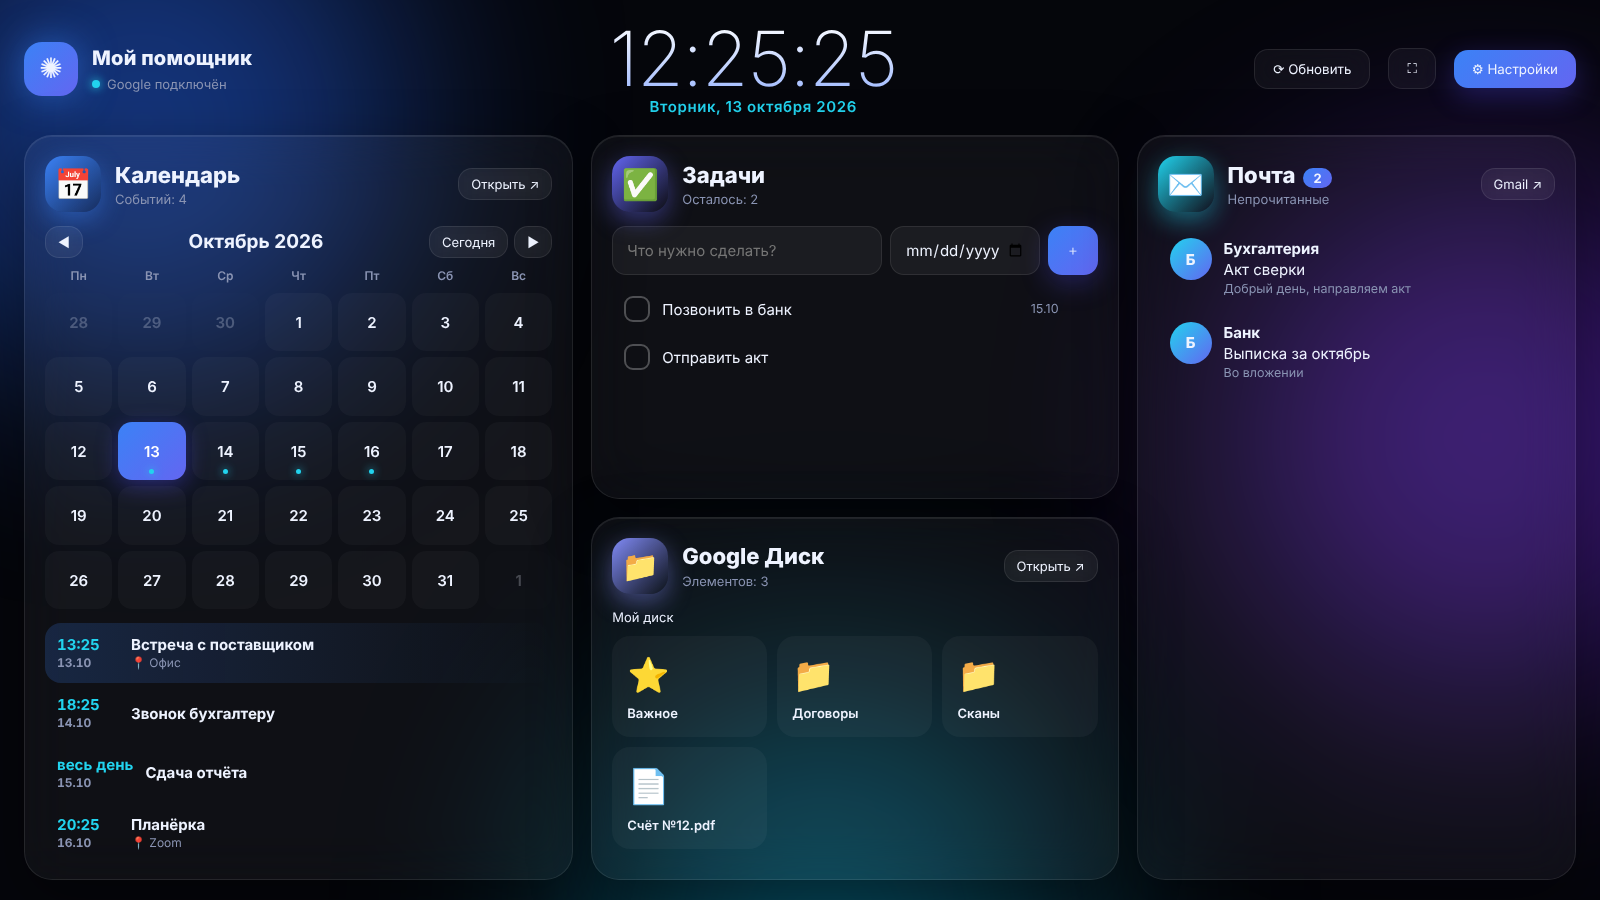
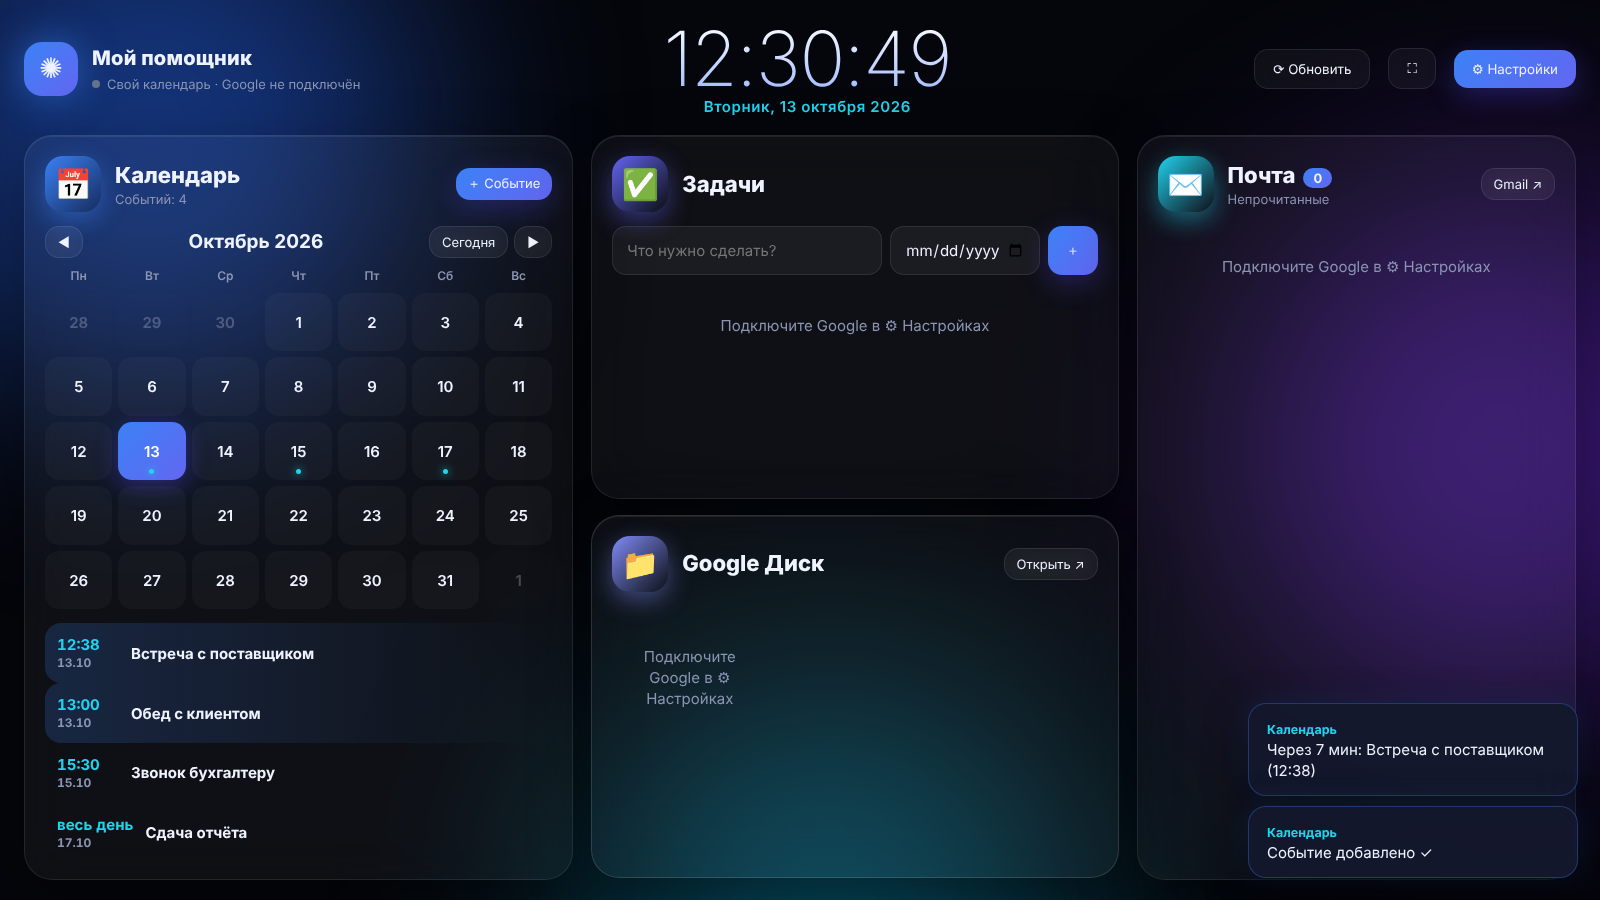
Local calendar: own events stored on this PC with reminders; Google optional
Claude-Session: https://claude.ai/code/session_01JDTBbyHNTuP4kXM5Cau5r2

diff --git a/assistant/web/index.html b/assistant/web/index.html
@@ -45,7 +45,7 @@ input,textarea{background:#ffffff0d;border:1px solid var(--ln);color:var(--ink);
 .mi div{min-width:0}.mi b,.mi small{display:block;white-space:nowrap;overflow:hidden;text-overflow:ellipsis}.mi small{color:var(--mut)}
 .badge{background:linear-gradient(135deg,var(--b1),var(--b2));padding:2px 10px;border-radius:99px;font-size:13px;font-weight:700;margin-left:8px}
 .empty{color:var(--mut);text-align:center;padding:30px 10px}
-.hero{position:fixed;inset:0;display:none;place-items:center;background:#05060bd9;backdrop-filter:blur(8px);z-index:5}.hero.on{display:grid}
+.hero{position:fixed;inset:0;display:none;place-items:center;background:#05060bd9;backdrop-filter:blur(8px);z-index:5}.hero.on{display:grid}.tag{font-size:11px;padding:2px 8px;border-radius:99px;background:#3b82f633;color:#93c5fd;margin-left:6px;font-weight:600}.ev .x{margin-left:auto;opacity:0;cursor:pointer}.ev:hover .x{opacity:.7}
 .drawer{position:fixed;top:0;right:0;bottom:0;width:min(460px,100vw);background:rgba(12,14,24,.92);backdrop-filter:blur(30px);border-left:1px solid var(--ln);padding:26px;transform:translateX(105%);transition:.35s cubic-bezier(.2,.8,.2,1);z-index:6;overflow:auto}.drawer.on{transform:none}
 .drawer h3{margin:22px 0 8px;font-size:12px;letter-spacing:.14em;color:var(--b3)}.drawer label{display:flex;align-items:center;gap:10px;padding:7px 0;color:var(--ink)}
 .row{display:flex;gap:8px;flex-wrap:wrap;margin:8px 0}.steps{color:var(--mut);font-size:13px}.steps li{margin:3px 0}
@@ -61,7 +61,7 @@ input,textarea{background:#ffffff0d;border:1px solid var(--ln);color:var(--ink);
  <button class="btn" onclick="refresh()">⟳ Обновить</button><button class="btn" onclick="fs()">⛶</button><button class="btn p" onclick="drawer(1)">⚙ Настройки</button>
 </header>
 <main>
- <section class="card cal" style="--g:#3b82f6"><div class="hd"><div class="ic">📅</div><div><h2>Календарь</h2><small id="evc"></small></div><button class="btn sm" onclick="window.open('https://calendar.google.com')">Открыть ↗</button></div>
+ <section class="card cal" style="--g:#3b82f6"><div class="hd"><div class="ic">📅</div><div><h2>Календарь</h2><small id="evc"></small></div><button class="btn p sm" onclick="evm(1)">＋ Событие</button></div>
   <div class="mn"><button class="btn sm" onclick="mv(-1)">◀</button><b id="mt"></b><div><button class="btn sm" onclick="goto()">Сегодня</button><button class="btn sm" onclick="mv(1)">▶</button></div></div>
   <div class="mg" id="mg"></div><div class="body" id="evl" style="margin-top:14px"></div></section>
  <section class="card" style="--g:#6366f1"><div class="hd"><div class="ic">✅</div><div><h2>Задачи</h2><small id="tc"></small></div></div>
@@ -70,11 +70,18 @@ input,textarea{background:#ffffff0d;border:1px solid var(--ln);color:var(--ink);
  <section class="card" style="--g:#818cf8"><div class="hd"><div class="ic">📁</div><div><h2>Google Диск</h2><small id="dc"></small></div><button class="btn sm" onclick="window.open('https://drive.google.com')">Открыть ↗</button></div><div class="crumb" id="cr"></div><div class="body"><div class="tiles" id="dr"></div></div></section>
 </main>
 
-<div class="hero" id="hero"><div class="card" style="max-width:480px;text-align:center;align-items:center;gap:14px;--g:#6366f1"><div class="logo" style="width:84px;height:84px;font-size:44px;border-radius:28px;background:linear-gradient(135deg,#3b82f6,#6366f1)">✺</div><h2 style="margin:0;font-size:28px">Подключите Google</h2><p style="color:var(--mut);margin:0">Один вход — календарь, задачи, диск и Gmail. Уведомления придут сами.</p><button class="btn p" onclick="drawer(1)">⚙ Открыть настройки</button></div></div>
+<div class="hero" id="evm"><div class="card" style="width:min(460px,92vw);gap:12px;--g:#3b82f6">
+ <div class="hd"><div class="ic">📅</div><div><h2>Новое событие</h2><small>Сохраняется на этом компьютере</small></div></div>
+ <input id="et" placeholder="Название" onkeydown="if(event.key=='Enter')saveEv()">
+ <div style="display:flex;gap:8px"><input id="ed" type="date" style="flex:1"><input id="etm" type="time" style="flex:1"></div>
+ <input id="el" placeholder="Место (необязательно)">
+ <label style="display:flex;gap:8px;align-items:center;color:var(--mut)">Напомнить за <input id="er" type="number" min="0" placeholder="по умолч." style="width:100px"> мин</label>
+ <div style="color:var(--mut);font-size:12px">Без времени — событие на весь день.</div>
+ <div class="row" style="margin:6px 0 0"><button class="btn p" onclick="saveEv()">Сохранить</button><button class="btn" onclick="evm(0)">Отмена</button></div></div></div>
 
 <aside class="drawer" id="dw">
  <div style="display:flex;align-items:center"><h2 style="margin:0;font-size:24px">Настройки</h2><button class="btn sm" style="margin-left:auto" onclick="drawer(0)">✕</button></div>
- <h3>ПОДКЛЮЧЕНИЕ GOOGLE</h3><div id="gs" style="color:var(--mut)"></div>
+ <p style="color:var(--mut);font-size:13px">Календарь работает и без Google — события хранятся на этом компьютере. Google нужен для задач, диска и почты (и по желанию показывает свои события календаря).</p><h3>ПОДКЛЮЧЕНИЕ GOOGLE (необязательно)</h3><div id="gs" style="color:var(--mut)"></div>
  <ol class="steps"><li>Скачайте OAuth-ключ (см. assistant/README.md)</li><li>Загрузите файл ниже</li><li>Нажмите «Подключить» и разрешите доступ</li></ol>
  <div class="row"><label class="btn sm" style="cursor:pointer">1. Загрузить credentials.json<input type="file" accept=".json" id="kf" hidden onchange="upKey(this)"></label><button class="btn p sm" onclick="conn()">2. Подключить Google</button><button class="btn sm" onclick="api('/api/disconnect','POST').then(poll)">Отключить</button></div>
  <p style="color:var(--mut);font-size:13px">Gmail входит в тот же доступ — отдельный пароль почты не нужен.</p>
@@ -107,17 +114,21 @@ function drawCal(){$('mt').textContent=`${MN[month.getMonth()]} ${month.getFullY
  $('mg').innerHTML=h;drawEv()}
 function pickD(k){sel=sel==k?null:k;drawCal()}
 function drawEv(){const now=Date.now();let l=S.events.filter(e=>!sel||key(new Date(e.start))==sel);$('evc').textContent=`Событий: ${S.events.length}`;
- $('evl').innerHTML=l.length?l.map(e=>{const d=new Date(e.start);return`<div class="ev ${Math.abs(d-now)<36e5&&!e.all_day?'now':''}" onclick="window.open('${esc(e.link)}')"><div class="tm">${e.all_day?'весь день':pad(d.getHours())+':'+pad(d.getMinutes())}<div class="dd">${pad(d.getDate())}.${pad(d.getMonth()+1)}</div></div><div><b>${esc(e.title)}</b>${e.location?`<div class="dd">📍 ${esc(e.location)}</div>`:''}</div></div>`}).join(''):'<div class="empty">Нет событий ✨</div>'}
+ $('evl').innerHTML=l.length?l.map(e=>{const d=new Date(e.start);return`<div class="ev ${Math.abs(d-now)<36e5&&!e.all_day?'now':''}" onclick="${e.local?'':`window.open('${esc(e.link)}')`}"><div class="tm">${e.all_day?'весь день':pad(d.getHours())+':'+pad(d.getMinutes())}<div class="dd">${pad(d.getDate())}.${pad(d.getMonth()+1)}</div></div><div><b>${esc(e.title)}</b>${e.local?'':'<span class="tag">Google</span>'}${e.location?`<div class="dd">📍 ${esc(e.location)}</div>`:''}</div>${e.local?`<div class="x" onclick="event.stopPropagation();delEv('${e.id}')">🗑</div>`:''}</div>`}).join(''):'<div class="empty">Нет событий ✨<br><small>Нажмите «＋ Событие», чтобы добавить</small></div>'}
+function evm(o){$('evm').classList.toggle('on',!!o);if(o){$('ed').value=sel||key(new Date());$('et').value='';$('etm').value='';$('el').value='';$('er').value='';setTimeout(()=>$('et').focus(),50)}}
+async function saveEv(){try{await api('/api/events','POST',{title:$('et').value,date:$('ed').value,time:$('etm').value,location:$('el').value,lead:$('er').value});evm(0);await api('/api/refresh','POST');setTimeout(poll,600);toast('Календарь','Событие добавлено ✓')}catch(e){toast('Ошибка',e.message)}}
+async function delEv(id){if(confirm('Удалить событие?')){await api('/api/events/delete','POST',{id});await api('/api/refresh','POST');setTimeout(poll,600)}}
 /* почта */
-function drawMail(){$('mb').textContent=S.mail.length;$('ml').innerHTML=S.mail.length?S.mail.map(m=>{const n=(m.from.split('<')[0].trim()||m.from);return`<div class="mi" onclick="window.open('https://mail.google.com')"><div class="av">${esc(n[0]||'?').toUpperCase()}</div><div><b>${esc(n)}</b><span>${esc(m.subject)}</span><small>${esc(m.snippet)}</small></div></div>`}).join(''):'<div class="empty">Всё прочитано 🎉</div>'}
+function drawMail(){if(!S.connected){$('mb').textContent=0;$('ml').innerHTML=NC;return}$('mb').textContent=S.mail.length;$('ml').innerHTML=S.mail.length?S.mail.map(m=>{const n=(m.from.split('<')[0].trim()||m.from);return`<div class="mi" onclick="window.open('https://mail.google.com')"><div class="av">${esc(n[0]||'?').toUpperCase()}</div><div><b>${esc(n)}</b><span>${esc(m.subject)}</span><small>${esc(m.snippet)}</small></div></div>`}).join(''):'<div class="empty">Всё прочитано 🎉</div>'}
 /* задачи */
-async function loadT(){if(!S.connected)return;try{const t=await api('/api/tasks');$('tc').textContent=`Осталось: ${t.length}`;
+const NC='<div class="empty">Подключите Google в ⚙ Настройках</div>';
+async function loadT(){if(!S.connected){$('tl').innerHTML=NC;return}try{const t=await api('/api/tasks');$('tc').textContent=`Осталось: ${t.length}`;
  $('tl').innerHTML=t.length?t.map(x=>`<div class="tk" id="k${x.id}"><div class="ck" onclick="done('${x.id}')"></div><span>${esc(x.title)}</span>${x.due?`<small>${x.due.split('-').reverse().slice(0,2).join('.')}</small>`:''}<div class="del" onclick="delT('${x.id}')">🗑</div></div>`).join(''):'<div class="empty">Задач нет — отдыхайте 🌴</div>'}catch(e){toast('Задачи',e.message)}}
 async function addT(){const t=$('ti').value.trim();if(!t)return;$('ti').value='';await api('/api/tasks','POST',{title:t,due:$('td').value});$('td').value='';loadT()}
 async function done(id){const e=$('k'+id);e&&e.classList.add('x');await api('/api/tasks/done','POST',{id});setTimeout(loadT,450)}
 async function delT(id){if(confirm('Удалить задачу?')){await api('/api/tasks/delete','POST',{id});loadT()}}
 /* диск */
-async function loadD(){if(!S.connected)return;$('cr').innerHTML=stack.map((s,i)=>`<a style="cursor:pointer;color:${i==stack.length-1?'var(--ink)':'var(--b3)'}" onclick="crumb(${i})">${esc(s[0])}</a>`).join(' › ');
+async function loadD(){if(!S.connected){$('dr').innerHTML=NC.replace('class="empty"','class="empty" style="grid-column:1/-1"');return}$('cr').innerHTML=stack.map((s,i)=>`<a style="cursor:pointer;color:${i==stack.length-1?'var(--ink)':'var(--b3)'}" onclick="crumb(${i})">${esc(s[0])}</a>`).join(' › ');
  const pins=(S.config.drive_folders||[]).map(f=>`<div class="tile" onclick="pin('${esc(f.id)}','${esc(f.name)}')"><i>⭐</i><b>${esc(f.name)}</b></div>`).join('');
  try{const it=await api('/api/drive?folder='+stack[stack.length-1][1]);$('dc').textContent=`Элементов: ${it.length}`;
  $('dr').innerHTML=(stack.length==1?pins:'')+it.map(f=>`<div class="tile" onclick="${f.folder?`openF('${f.id}','${esc(f.name).replace(/'/g,'')}')`:`window.open('${esc(f.link)}')`}"><i>${f.folder?'📁':'📄'}</i><b>${esc(f.name)}</b></div>`).join('')}catch(e){toast('Диск',e.message)}}
@@ -132,10 +143,9 @@ async function refresh(){await api('/api/refresh','POST');setTimeout(()=>{poll()
 /* опрос */
 async function poll(){try{const s=await api('/api/state?since='+since),was=S.connected;S=s;
  s.alerts.forEach(a=>{since=Math.max(since,a.id);toast(a.title,a.text)});
- $('dot').className='dot'+(s.connected?' on':'');$('cn').textContent=s.connected?'Google подключён':(s.connecting?'Подключаем…':'Google не подключён');
- $('hero').classList.toggle('on',!s.connected&&!$('dw').classList.contains('on'));
- $('gs').textContent=(s.connected?'● Подключено. ':'○ Не подключено. ')+(s.has_key?'Ключ загружен.':'Нужен файл credentials.json.')+(s.error?' Ошибка: '+s.error:'');
+ $('dot').className='dot'+(s.connected?' on':'');$('cn').textContent=s.connected?'Google подключён':(s.connecting?'Подключаем…':'Свой календарь · Google не подключён');
+  $('gs').textContent=(s.connected?'● Подключено. ':'○ Не подключено. ')+(s.has_key?'Ключ загружен.':'Нужен файл credentials.json.')+(s.error?' Ошибка: '+s.error:'');
  if(!cfgLoaded&&s.config.default_lead_minutes){cfgLoaded=true;fillCfg()}
  drawCal();drawMail();if(s.connected&&!was){loadT();loadD()}}catch(e){$('cn').textContent='Нет связи с помощником'}}
-poll();setInterval(poll,5000);setInterval(loadT,60000);
+poll();loadT();loadD();setInterval(poll,5000);setInterval(loadT,60000);
 </script></html>

diff --git a/assistant/server.py b/assistant/server.py
@@ -19,6 +19,7 @@ from .watcher import due_reminders, new_mail, reminder_text
 
 CONFIG_PATH = Path("assistant_config.yaml")
 TOKEN_PATH = Path(".assistant_token")
+EVENTS_PATH = Path("assistant_events.json")
 WEB = Path(__file__).parent / "web"
 DEFAULTS = {
     "credentials_file": "credentials.json", "token_file": "token.json",
@@ -43,12 +44,34 @@ def get_token() -> str:
     return t
 
 
+def load_local() -> list[dict]:
+    if EVENTS_PATH.exists():
+        try:
+            return json.loads(EVENTS_PATH.read_text(encoding="utf-8"))
+        except ValueError:
+            return []
+    return []
+
+
+def local_to_event(e: dict) -> dict:
+    """Запись своего календаря -> тот же вид, что у событий Google."""
+    if e.get("all_day"):
+        start = dt.datetime.combine(dt.date.fromisoformat(e["date"]), dt.time.min).astimezone()
+    else:
+        start = dt.datetime.fromisoformat(f"{e['date']}T{e.get('time') or '09:00'}").astimezone()
+    lead = e.get("lead")
+    return {"id": e["id"], "summary": e["title"], "start": start, "all_day": bool(e.get("all_day")),
+            "leads": [int(lead)] if lead not in (None, "") else [], "use_default": lead in (None, ""),
+            "location": e.get("location", ""), "link": "", "local": True}
+
+
 class Core:
     def __init__(self):
         self.cfg = load_config()
         self.token = get_token()
         self.g = Google(self.cfg["credentials_file"], self.cfg["token_file"])
-        self.events, self.mail, self.alerts = [], [], []
+        self.google_events, self.events, self.mail, self.alerts = [], [], [], []
+        self.local = load_local()
         self.seen_rem, self.seen_mail, self.mail_first = set(), set(), True
         self.error, self.connecting = "", False
         self.wake = threading.Event()
@@ -63,20 +86,49 @@ class Core:
         if not notify(title, text):
             pass  # страница всё равно покажет карточку-уведомление
 
+    def rebuild(self):
+        mine = [local_to_event(e) for e in self.local]
+        self.events = sorted(self.google_events + mine, key=lambda e: e["start"])
+
     def _calendar_loop(self):
         while True:
             if self.g.connected():
                 try:
-                    evs = self.g.events(days=int(self.cfg["events_days_ahead"]))
-                    if self.cfg["notify_calendar"]:
-                        for e, left in due_reminders(evs, dt.datetime.now(dt.timezone.utc),
-                                                     int(self.cfg["default_lead_minutes"]), self.seen_rem):
-                            self.alert("Календарь", reminder_text(e, left))
-                    self.events, self.error = evs, ""
+                    self.google_events = self.g.events(days=int(self.cfg["events_days_ahead"]))
+                    self.error = ""
                 except Exception as ex:
                     self.error = str(ex)
-            self.wake.wait(int(self.cfg["calendar_poll_seconds"]) if self.g.connected() else 3)
+            self.rebuild()
+            if self.cfg["notify_calendar"]:
+                for e, left in due_reminders(self.events, dt.datetime.now(dt.timezone.utc),
+                                             int(self.cfg["default_lead_minutes"]), self.seen_rem):
+                    self.alert("Календарь", reminder_text(e, left))
+            self.wake.wait(min(int(self.cfg["calendar_poll_seconds"]), 30) if not self.g.connected()
+                           else int(self.cfg["calendar_poll_seconds"]))
             self.wake.clear()
+
+    def add_event(self, d: dict):
+        title = str(d.get("title", "")).strip()[:200]
+        if not title:
+            raise ValueError("Введите название")
+        dt.date.fromisoformat(d["date"])
+        if d.get("time"):
+            dt.time.fromisoformat(d["time"])
+        lead = d.get("lead")
+        ev = {"id": "L" + secrets.token_hex(5), "title": title, "date": d["date"],
+              "time": d.get("time") or "", "all_day": bool(d.get("all_day")) or not d.get("time"),
+              "location": str(d.get("location", ""))[:200],
+              "lead": int(lead) if lead not in (None, "") else None}
+        self.local.append(ev)
+        self._save_local()
+
+    def delete_event(self, eid: str):
+        self.local = [e for e in self.local if e["id"] != eid]
+        self._save_local()
+
+    def _save_local(self):
+        EVENTS_PATH.write_text(json.dumps(self.local, ensure_ascii=False, indent=1), encoding="utf-8")
+        self.rebuild()
 
     def _mail_loop(self):
         while True:
@@ -98,7 +150,8 @@ class Core:
             "connected": self.g.connected(), "connecting": self.connecting,
             "has_key": Path(self.cfg["credentials_file"]).exists(), "error": self.error,
             "events": [{"id": e["id"], "title": e["summary"], "start": e["start"].isoformat(),
-                        "all_day": e["all_day"], "link": e["link"], "location": e["location"]} for e in self.events],
+                        "all_day": e["all_day"], "link": e["link"], "location": e["location"],
+                        "local": bool(e.get("local"))} for e in self.events],
             "mail": self.mail, "alerts": [a for a in self.alerts if a["id"] > since],
             "config": {k: self.cfg[k] for k in EDITABLE} | {"drive_folders": self.cfg["drive_folders"]},
         }
@@ -202,6 +255,10 @@ def make_handler(core: Core):
                     core.save_config(json.loads(raw))
                 elif p == "/api/notify-test":
                     core.alert("Помощник", "Уведомления работают ✨")
+                elif p == "/api/events":
+                    core.add_event(json.loads(raw))
+                elif p == "/api/events/delete":
+                    core.delete_event(str(json.loads(raw)["id"]))
                 elif p == "/api/tasks":
                     d = json.loads(raw)
                     due = dt.date.fromisoformat(d["due"]) if d.get("due") else None

diff --git a/tests/test_assistant.py b/tests/test_assistant.py
@@ -58,3 +58,18 @@ def test_server_auth_and_config(tmp_path, monkeypatch):
     assert core.cfg["drive_folders"] == [{"name": "A", "id": "ok-1"}]
     assert call("/api/key", "POST", b'{"x": 1}') == 500
     srv.shutdown()
+
+
+def test_local_calendar_reminder(tmp_path, monkeypatch):
+    monkeypatch.chdir(tmp_path)
+    from assistant import server
+    core = server.Core()
+    soon = dt.datetime.now() + dt.timedelta(minutes=5)
+    core.add_event({"title": "Тест", "date": soon.date().isoformat(), "time": soon.strftime("%H:%M")})
+    core.add_event({"title": "Без времени", "date": soon.date().isoformat()})
+    assert len(server.load_local()) == 2  # сохранено на диск
+    core.rebuild()
+    due = due_reminders(core.events, dt.datetime.now(dt.timezone.utc), 10, set())
+    assert [e["summary"] for e, _ in due] == ["Тест"]
+    core.delete_event(core.local[0]["id"])
+    assert len(server.load_local()) == 1
